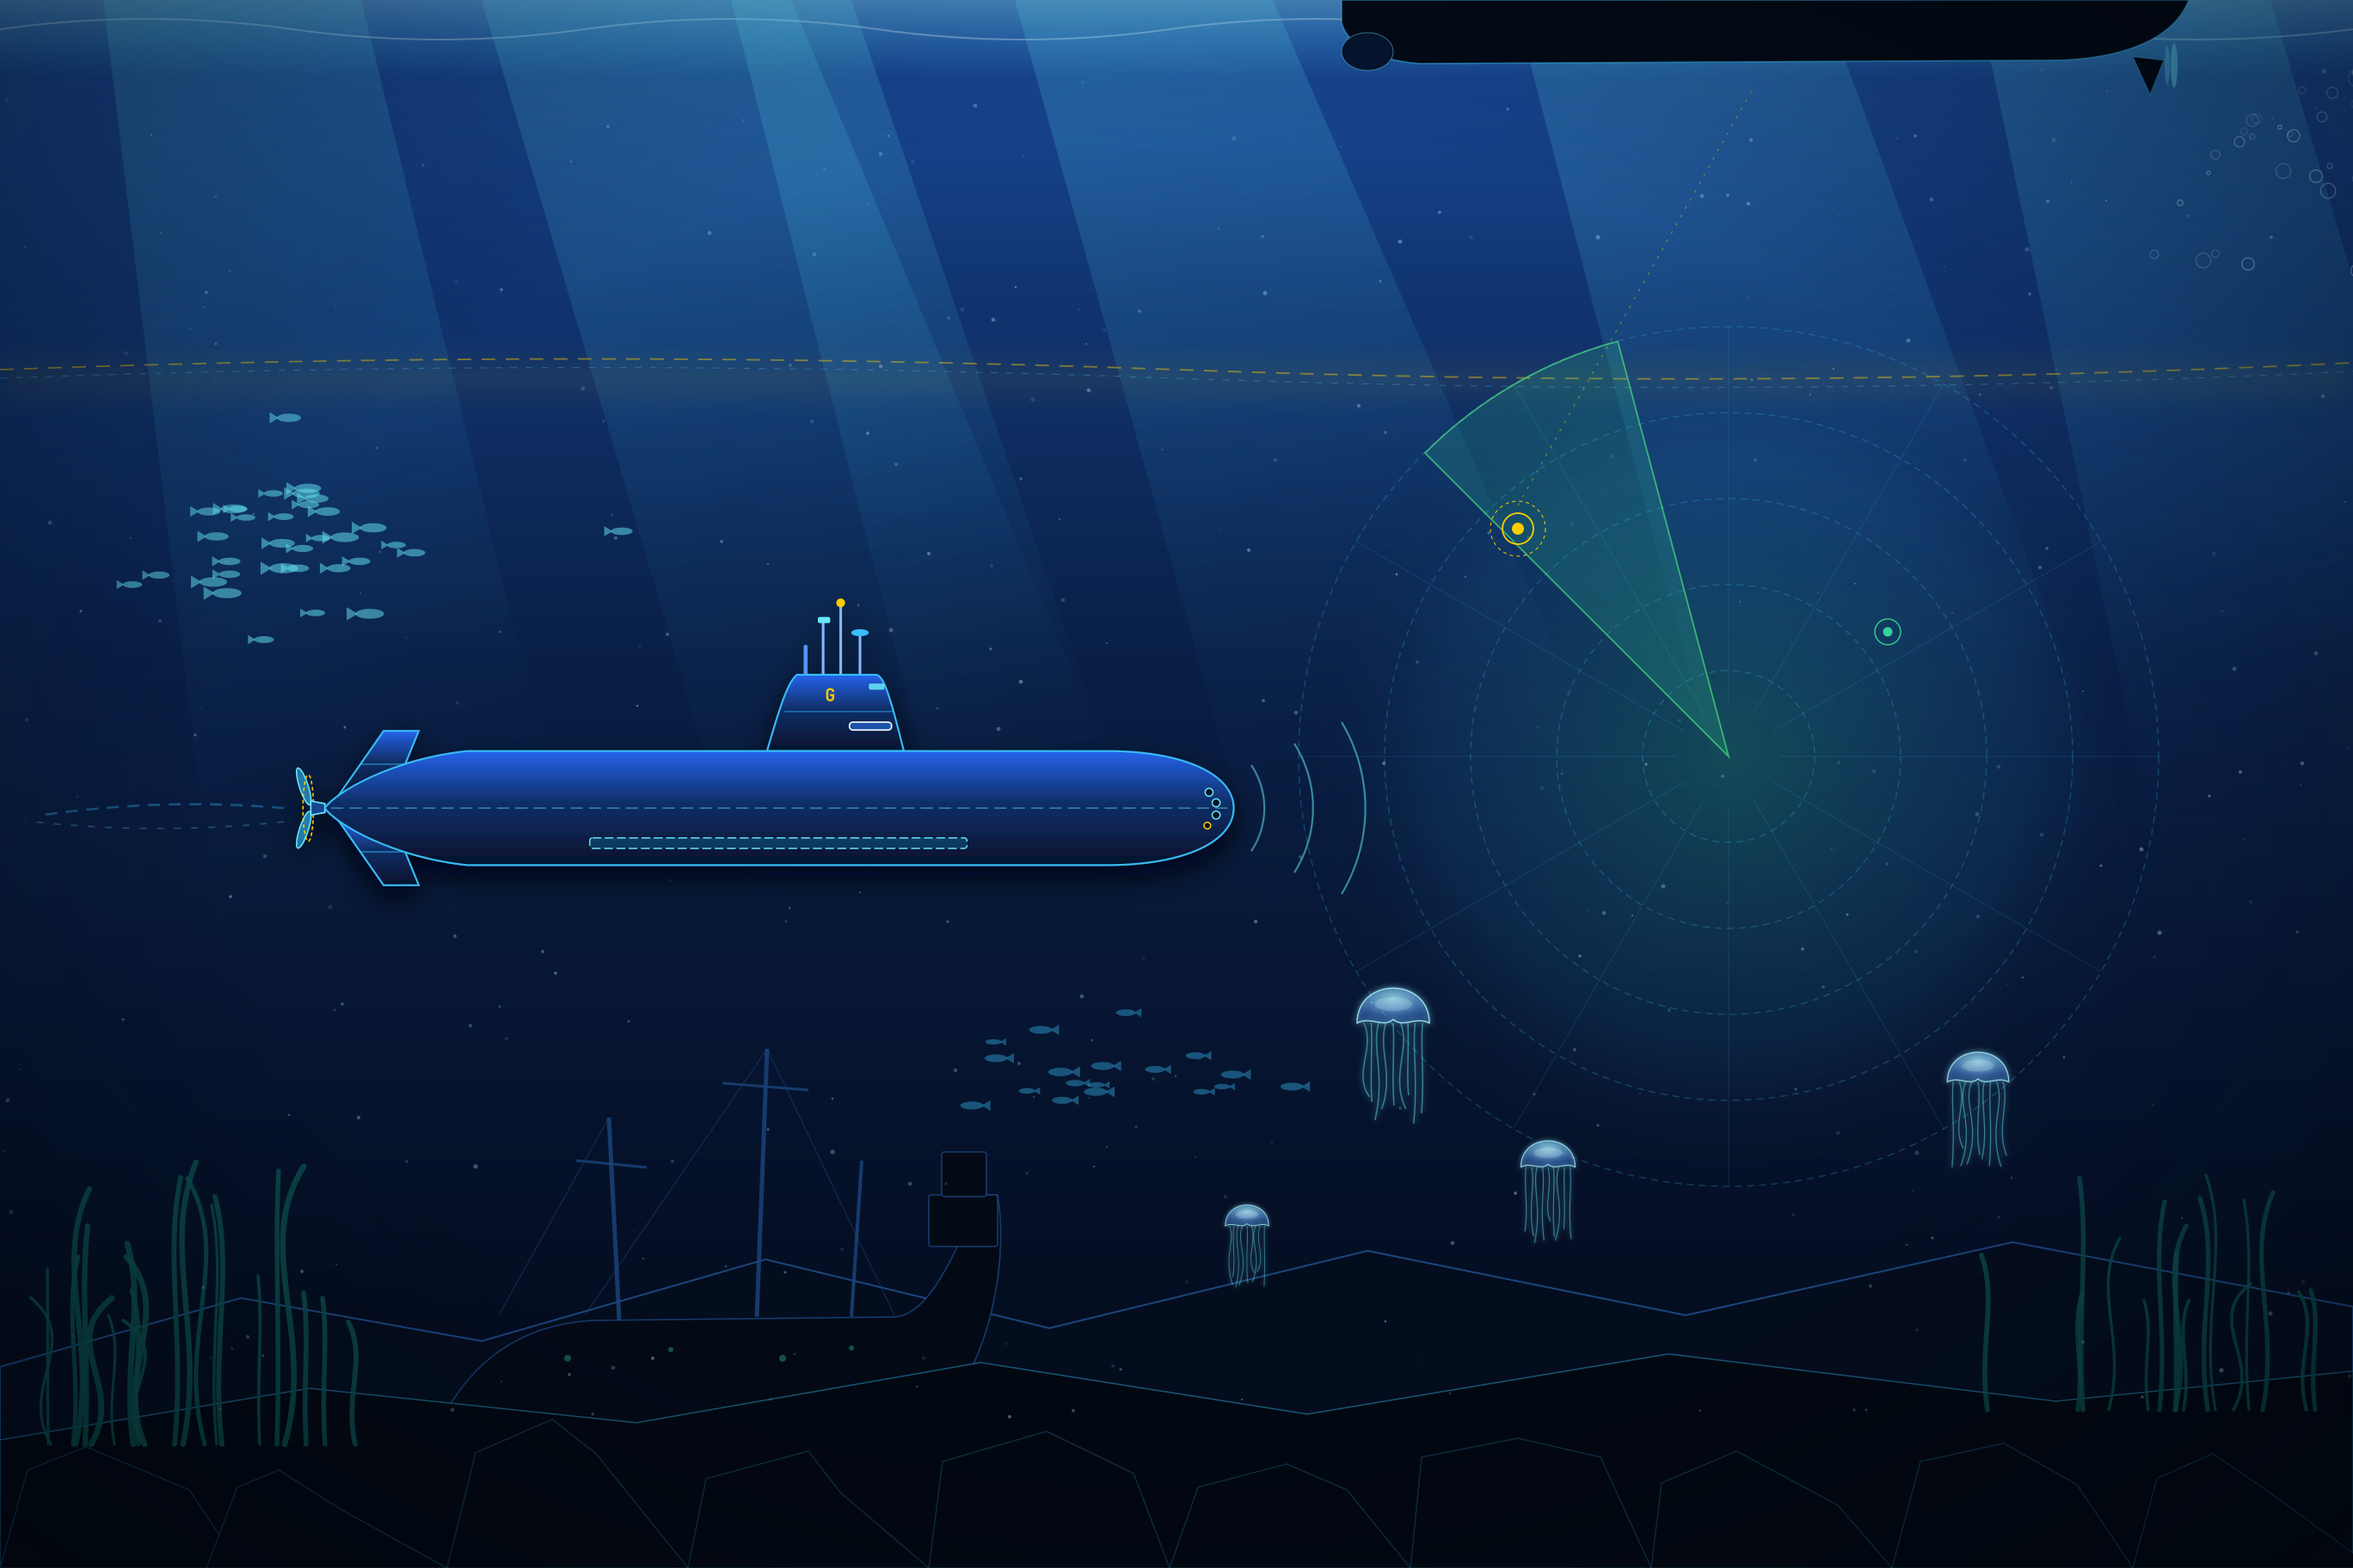
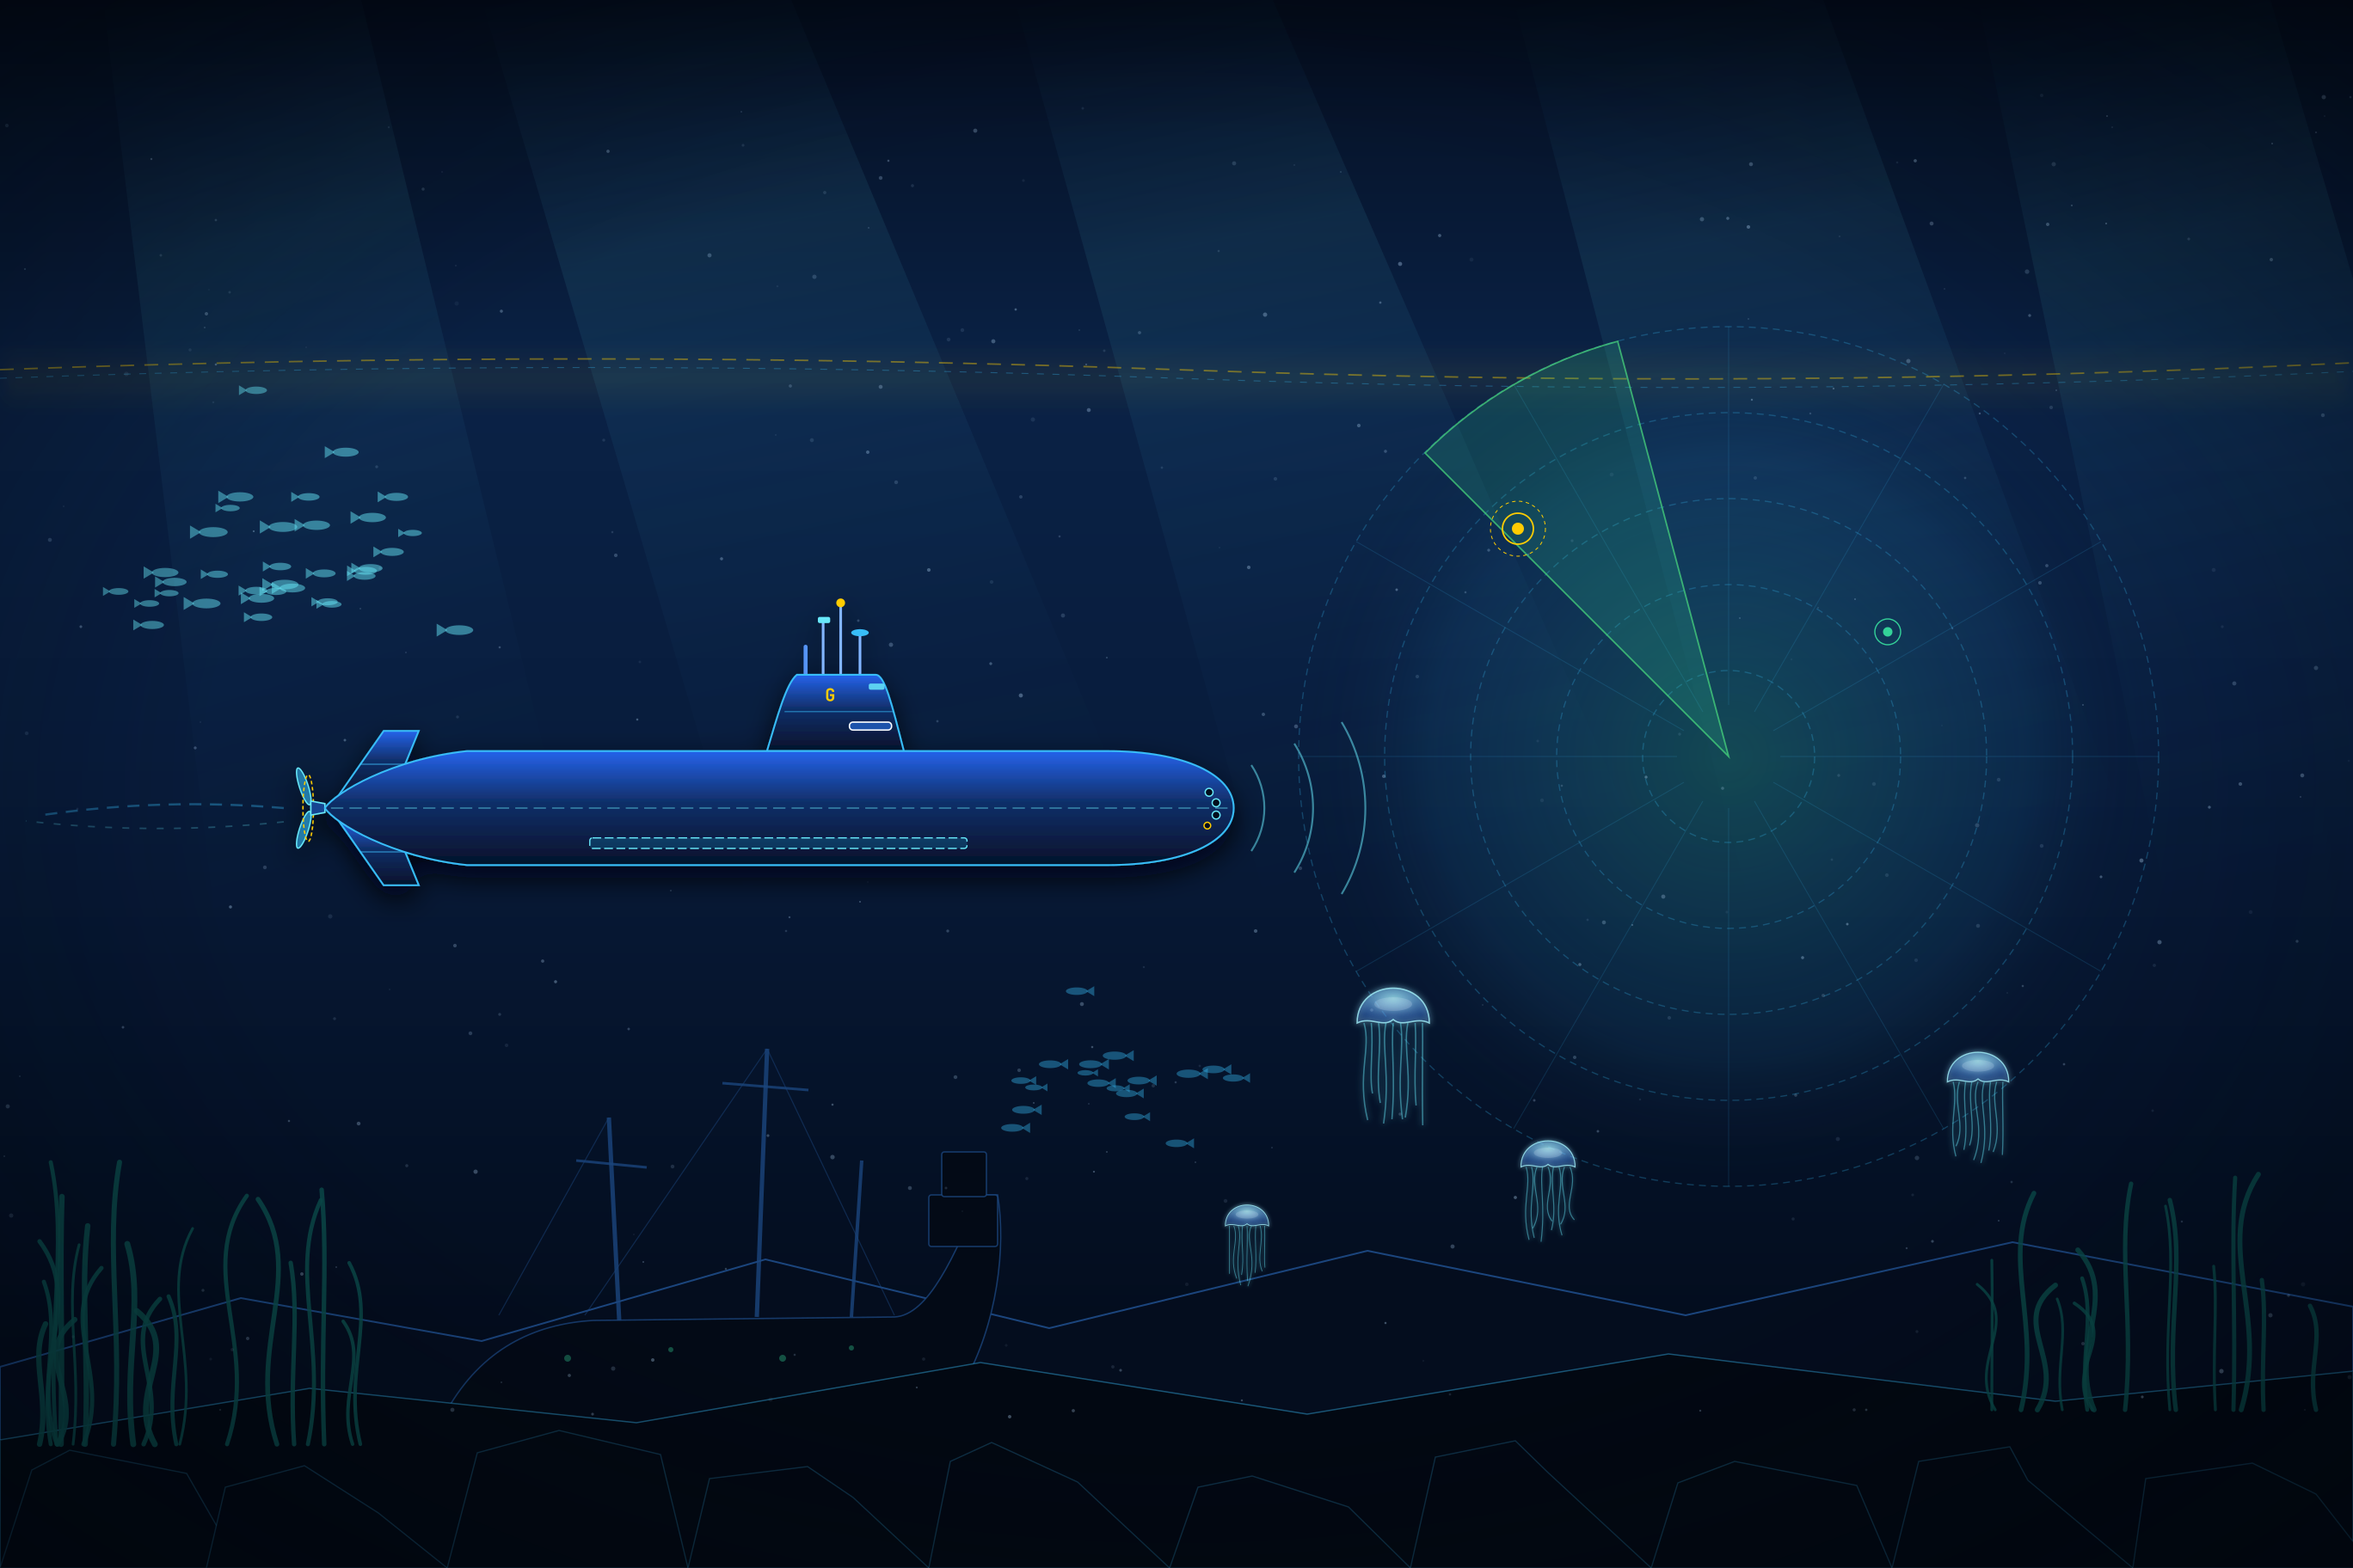
Improve backgrounds 03 (remove surface boat, darken top for Waybar) and 04 (realistic submerged 3D torpedoes & target-aligned wakes)

diff --git a/README.md b/README.md
@@ -63,14 +63,14 @@ All four custom wallpapers are rendered at native `2736×1824` (3:2 Retina / Wid
         <img src="backgrounds/03-baltic-sonar-silent-running.png" alt="03 — Baltic Thermocline Silent Running" width="100%">
       </a>
       <br><b>03 · Baltic Thermocline — Silent Running</b>
-      <br>Deep Baltic Sea underwater scene below the halocline with a surface warship hull and cavitation trail above, a 17th-century sunken warship wreck on the seabed, bioluminescent marine life, and a passive/active sonar sweep.
+      <br>Deep Baltic Sea underwater scene below the halocline with a 17th-century sunken warship wreck on the seabed, bioluminescent marine life, and a passive/active sonar sweep.
     </td>
     <td width="50%" align="center">
       <a href="backgrounds/04-dawn-torpedo-run.png">
         <img src="backgrounds/04-dawn-torpedo-run.png" alt="04 — Periscope Convoy Torpedo Run" width="100%">
       </a>
       <br><b>04 · Periscope Convoy Torpedo Salvo (Torped 62)</b>
-      <br>Attack periscope view at Baltic dawn with stadia rangefinding crosshairs locked onto a 4-ship naval convoy (flagship battleship, fleet replenishment oiler, and two escort frigates) as a two-torpedo <i>Torped 62</i> salvo streaks away in perspective through the dark waves.
+      <br>Attack periscope view at Baltic dawn with stadia rangefinding crosshairs locked onto a 4-ship naval convoy (flagship battleship, heavy cruiser, and two escort frigates) as a two-torpedo <i>Torped 62</i> salvo streaks submerged beneath the waves with perspective cavitation wakes aligned onto the targets.
     </td>
   </tr>
 </table>
